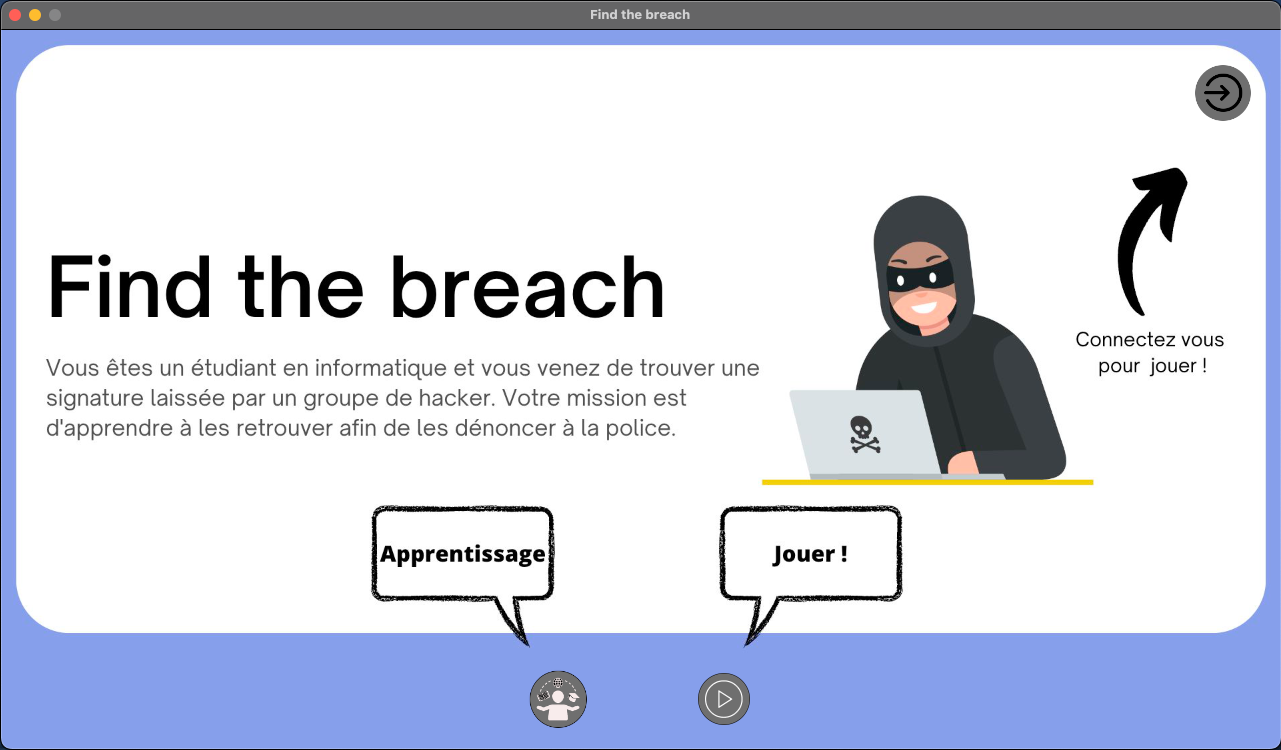
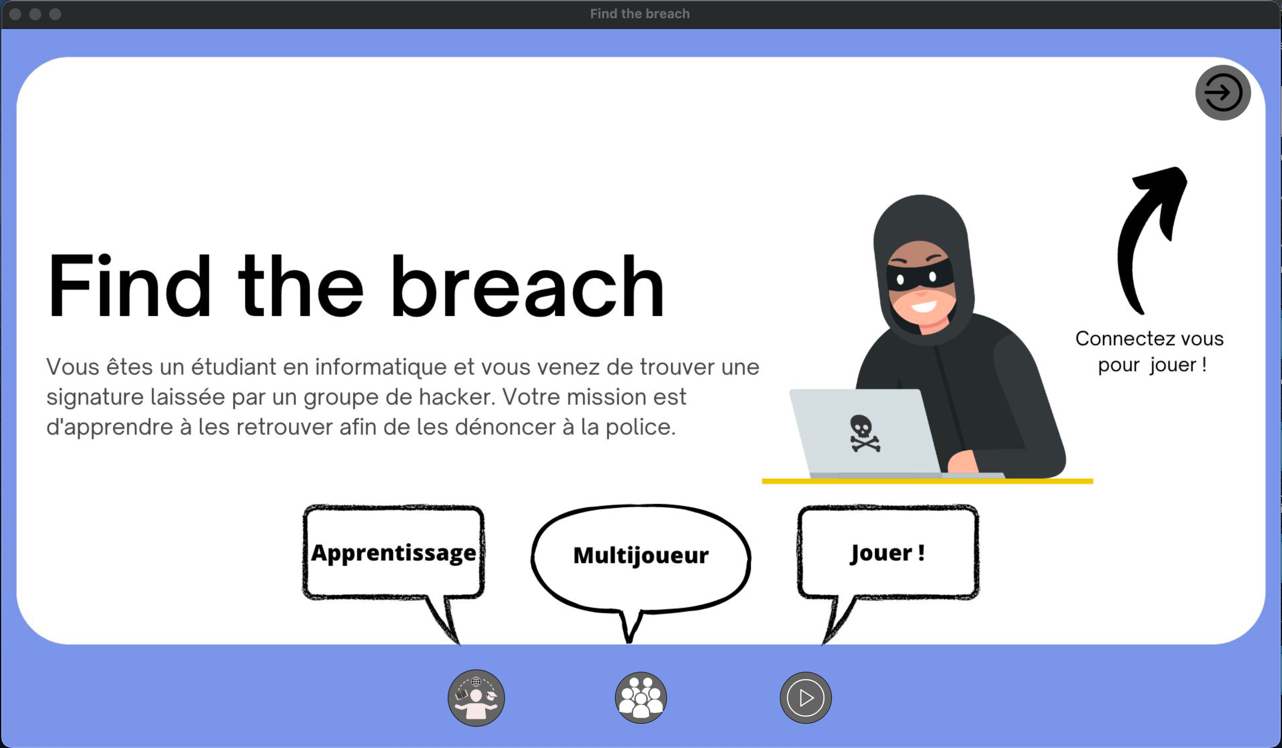
Ajout des pages de l'application et modification de la page d'accueil

diff --git a/Views/home/home.php b/Views/home/home.php
@@ -10,12 +10,28 @@
             <h4>Page d'accueil</h4>
         </section>
         <section class='page'>
-            <img src='/static/pictures/screenshots/screenshot1.png' alt="Page d'accueil">
+            <img src='/static/pictures/screenshots/screenshot2.png' alt="Page de connexion">
             <h4>Page de connexion</h4>
         </section>
         <section class='page'>
-            <img src='/static/pictures/screenshots/screenshot1.png' alt="Page d'accueil">
-            <h4>Page de jeu</h4>
+            <img src='/static/pictures/screenshots/screenshot3.png' alt="Page menu d'apprentissage">
+            <h4>Page menu d'apprentissage</h4>
+        </section>
+        <section class='page'>
+            <img src='/static/pictures/screenshots/screenshot4.png' alt="Page apprentissage">
+            <h4>Page apprentissage</h4>
+        </section>
+        <section class='page'>
+            <img src='/static/pictures/screenshots/screenshot5.png' alt="Page avec chat global">
+            <h4>Chat global intégré</h4>
+        </section>
+        <section class='page'>
+            <img src='/static/pictures/screenshots/screenshot6.png' alt="Page jeu">
+            <h4>Page jeu</h4>
+        </section>
+        <section class='page'>
+            <img src='/static/pictures/screenshots/screenshot7.png' alt="Page multijoueur">
+            <h4>Page multijoueur</h4>
         </section>
     </section>
 </section>
@@ -40,9 +56,19 @@
     <section class='how-to-use'>
         <h3 id='how-to-title'>3. Java</h3>
         <section>
-            <p>Pour lancer l'application, vous devez nécessairement avoir Java 17 ou une version ultérieure d'installée.</p>
+            <p>Pour lancer l'application, vous devez nécessairement avoir Java 17 ou une version ultérieure d'installée.
+             Le JDK doit contenir obligatoirement JavaFx pour que l'application s'exécute, téléchargez la version pour votre ordinateur
+            ci-dessous !</p>
         </section>
-        <a class='btn-how-to' href='https://jdk.java.net/' target="_blank"><h3 class='btn-how-to-text'>Site de java</h3></a>
+        <a class='btn-how-to' href='https://bell-sw.com/pages/downloads/' target="_blank"><h3 class='btn-how-to-text'>Site du JDK de Liberica</h3></a>
+    </section>
+    <section class='how-to-use'>
+        <h3 id='how-to-title'>4. Lancement</h3>
+        <section>
+            <p>Une fois java installé, vous pouvez double-cliquer sur le fichier .jar téléchargé afin de lancer l'application.
+            Sinon, vous pouvez entrer la commande "java -jar FindTheBreachApp.jar" dans votre terminal où est présent le fichier.</p>
+        </section>
+        <a class='btn-how-to' href='https://bell-sw.com/pages/downloads/' target="_blank"><h3 class='btn-how-to-text'>Site du JDK de Liberica</h3></a>
     </section>
 </section>
 
